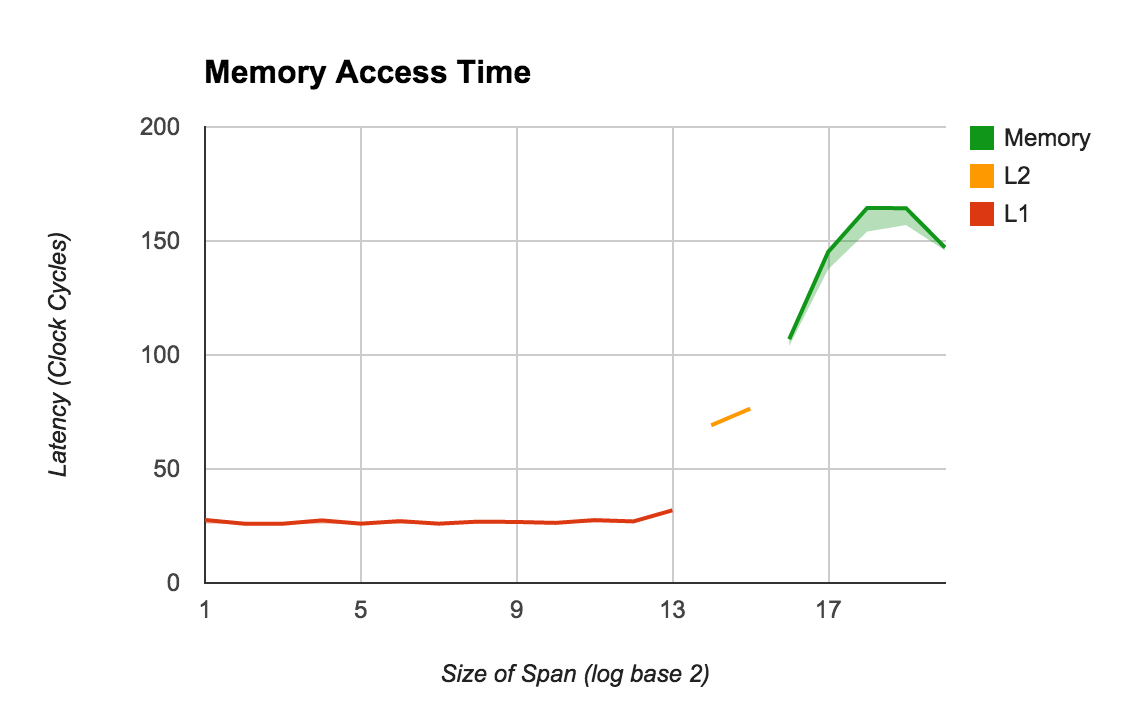
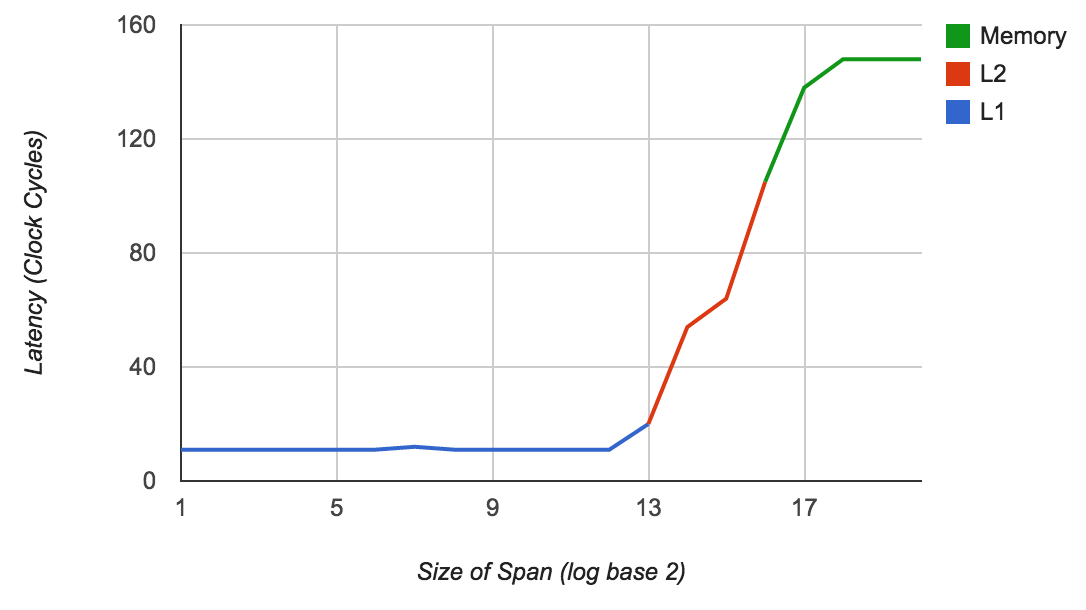
Commiting changes to memory experiments

diff --git a/report/experiments/exp_2_1.tex b/report/experiments/exp_2_1.tex
@@ -1,4 +1,5 @@
 To measure memory read latency we read the first byte of each cache line within a span of memory.  
+We align the data to L1 cache lines.
 We measure the time taken per read and then compute the mean and standard deviation of the time by span size.
 As the span size increases, the depth of memory reached goes from L1 to L2 and finally to main memory.  
 Larger spans would eventually reach to the secondary storage due to paging but very large spans would be needed and thus paging is measured in a later experiment.
@@ -10,9 +11,12 @@ for(k = 0; k < 2^SPAN_SIZE; k+= PAGE_SIZE){
 }
 \end{verbatim}
 
-Documentation shows that the L1 cache has a 3 cycle load-to-use delay.  Since we are just reading into a register allocated variable we thus expect a 3 cycle delay over the baseline measurement.  No data on the load-to-use delay of the L2 or the main memory can be found.  A stack overflow article comparing speeds of typical caches state that L2 is typically 10x slower than L1 and main memory is typically 200x slower.  Thus we expect 14 cycles for L1 access, 41 for L2, and 600 for main memory.
-
-In figure \ref{fig:exp_2_1} we see that the L1 cache latency is about 26 cycles, L2 about 70 cycles, and main memory about 150 cycles.  We believe there may be extra overhead in our measurements that we are failing to account for in L1/L2 memory (possibly x isn't being put into a register or similar) we will investigate this further.  Main memory is significantly faster than prediction, our guess is that this is related to the main memory of the rasberry pi being on chip and thus faster than typical latencies. We will attempt to find better documentation for our final report.  We also believe that there may be out of order execution causing pipelining of reading,  we are looking for ways to improve our timing code.
+If we had the whole L1/L2 cache to use, we'd expect to transition to L2 cache at N=14 and to main memory at N=17.
+Since we likely don't have the whole cache and will likely have cache line collisions we'll proably move to deeper memory hierarchies a bit early.
+Documentation shows that the L1 cache has a 3 cycle load-to-use delay.  
+No documentation exists regarding the L2/Memory latency; however, an experiment similar to ours found latencies of 3 cycles for L1, 56 cycles for L2, and 116 cycles for memory\cite{sandmem}.
+Instead of looping through an array of chars they constructed a linked list but otherwise performed a similar test.
+Thus we expect similar results.
 
 \begin{figure}[h]
 \label{fig:exp_2_1}
@@ -21,3 +25,8 @@ In figure \ref{fig:exp_2_1} we see that the L1 cache latency is about 26 cycles,
 \caption{Cycle count for memory read latency vs span size.  
 Different memory regimes are labeled by color.  +/- 1 standard deviation highlighted by shading.}
 \end{figure}
+
+In Figure \ref{fig:exp_2_1} we see that the L1 cache latency averages 10 cycles, L2 averages 59 cycles, and main memory about 145 cycles, with a standard deviation of < 1 cycle for all levels. 
+The L1 cache and Memory tests are slower than the cited experiment however the L2 is right on the mark.
+It is possible that the linked list, which intrinsically does useful work (by pointing at the next location to work) vs our code which performs useful work outside of the timing cycle (by computing with and storing a new number into the array) results in additional overhead we don't expect.  
+

diff --git a/report/experiments/exp_2_3.tex b/report/experiments/exp_2_3.tex
@@ -1,8 +1,11 @@
-To measure the page fault latency we generate a file containing 4mb of data from {\tt /dev/random}, since the page size is 4KB this corresponds to 1000 pages of data.  
+To measure the page fault latency we generate a file containing 4MB of data from {\tt /dev/random}, since the page size is 4KB this corresponds to 1000 pages of data.  
 We then memory map this file and then measure the latency of reading the first byte of each page.  
+This corresponds to a page fault since the memory makes a block of memory and sets the file on disk to function as it's swapped page source.
+Thus when we request a byte from the region which has not been brough into memory it is the same as a page fault.
+In our later disk experiments, sequential reading of disk blocks, which have the same size and access pattern as we see in this experiment, have a mean latency of 250,000 cycles per block.
+Since the access pattern is similar to our access pattern here, we expect similar performance; however, a common myth is that memory mapping (as used here) is faster than reading (as used in the disk experiments) due to page faulting using a better system compared to disk io.
+Thus our estimate is likely a bit over.
 
-The rasberry pi has a class 10 SD card as its secondary storage device, which is not optimized for the random access typical in paging.  Most performance metrics cited only bandwidth rather than random read latency.  
-However, Tom's Hardware \cite{sdcard} performed a study and found read latency of about 1-2 ms.
-We thus suspect the about 1 million clock cycles per page fault.  
-
-Our experiment showed 2586 cycles per page fault with a standard deviation of 38 cycles.  This is several orders of magnitude faster than our expectation and thus indicates either some kind of cache optimization we are not accounting for or issues with timing.  We are investigating sources of error and have yet to identify the problem.
+Our experiment showed 150,000 cycles per page fault with a standard deviation of 33,000 cycles.
+As expected, this is slightly faster than the performance of regular disk io.
+However, it is within the same order of magnitude.

diff --git a/report/experiments/exp_2_2.tex b/report/experiments/exp_2_2.tex
@@ -4,7 +4,8 @@ We then write the value 1 into every byte in the span and measure the total time
 To measure read bandwidth we repeat the write experiment but read/sum all the values written into the span.
 To improve performance we unroll the writing and reading loop 16 times which should fully occupy the hardware scheduler.
 
-We expect each access within the a cache line to be the same as an access to the l1 cache and each cahce line to have one main memory access.  Thus we expect a total latency of (150*1 + 25*15) = 525 time per cache line or 0.03 bytes accessed per cycle.  
+We expect each access within the a cache line to be the same as an access to the l1 cache and each cache line to have one main memory access.  Thus we expect a total latency of (145*1 + 10*31) = 455 time per cache line or 0.07 bytes accessed per cycle.  This translates to 46 MB/s in memory bandwidth.
+We expect the 32 bytes of a write to be written to a write log and then written all at once so that the time to write will take the time of one memory access or 0.22 bytes per cycle, this translates to 150 MB/s.
 
 Table \ref{tab:exp_2_2} shows our read and write bandwidth.  The read and write bandwidth are both about double our predicted bandwidth.  This is probably accounted for by the chip fetching multiple bytes at once.  A better experiment may use 16 or 32 bit integers rather than 8 bit bytes.  An interesting result is that write bandwidth is a bit higher than read.  It is likely that this is caused by write grouping writing large chunks to memory once the buffers are full. 
 
@@ -13,7 +14,7 @@ Table \ref{tab:exp_2_2} shows our read and write bandwidth.  The read and write 
 \begin{tabular}{|l|l|}
 \hline
 Type  & Bandwidth        \\\hline
-Write & 0.08 Bytes/Cycle \\\hline
-Read  & 0.05 Bytes/Cycle \\ \hline
+Write & 136 MB/s\\\hline
+Read  & 88 MB/s \\ \hline
 \end{tabular}
 \end{table}

diff --git a/report/experiments/exp_1_4.tex b/report/experiments/exp_1_4.tex
@@ -12,14 +12,14 @@ Upon loading, the loops 100 times, each time resting the cycle counter, starting
 To ensure the thread runs immediately (since we have a single core cpu), the module's main thread is told to sleep briefly after the thread is created.
 
 The results of these two experiments are tabulated in Table \ref{tab:exp1_4}.
-As you can see it takes about 300k cycles to launch a process and 170k cycles to launch a kernel thread.
+As you can see it takes about 3 million cycles to launch a process and 170k cycles to launch a kernel thread.
 This is in line with expectations of a process taking significantly longer than a thread.
 
 \begin{table}
 \begin{tabular}{|c|c|c|}\hline
 & Mean & Standard Deviation \\\hline
-Process &  3161443 & 193338 \\
-Kthread & 172683 & 72571 \\\hline
+Process &  3100000 & 193338 \\
+Kthread & 170000 & 72571 \\\hline
 \end{tabular}
 \caption{Results of process creation experiment}\label{tab:exp1_4}
 \end{table}

diff --git a/report/experiments/exp_1_5.tex b/report/experiments/exp_1_5.tex
@@ -1,3 +1,4 @@
+
 In this experiment, we measure the time taken for a context switch to occur, both for ordinary processes and kernel threads. 
 
 To measure process context switch, our program forks a child process and creates two blocking pipes between the two.
@@ -22,8 +23,8 @@ This is inline with our expectations.
 \begin{table}
 \begin{tabular}{|c|c|c|}\hline
 & Mean & Standard Deviation \\\hline
-Process &  25347 & 5018\\
-Kthread & 5204 & 561\\\hline
+Process &  25000 & 5018\\
+Kthread & 5200 & 561\\\hline
 \end{tabular}
 \caption{Results of context switch experiment}\label{tab:exp1_5}
 \end{table}

diff --git a/report/experiments/exp_4_2.tex b/report/experiments/exp_4_2.tex
@@ -11,3 +11,4 @@ To measure performance of a freshly opened file, we also perform an experiment w
 
 We believe these three access patterns capture the main read only access patterns expected in most programs.
 
+seq 254000.28 mean  46759.39801
